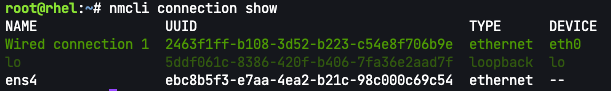
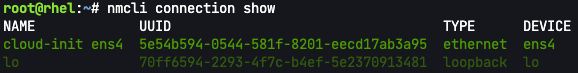
Update installation instructions and network configuration in assignments; comment out unnecessary commands in setup script

diff --git a/command-line-assistant-problem-solving/04-network/assignment.md b/command-line-assistant-problem-solving/04-network/assignment.md
@@ -25,7 +25,7 @@ The command line assistant is useful for configuring and troubleshooting RHEL ne
 Let's ask command line assistant what our DNS is configured to.
 
 ```bash,run
-c "how do I determine my dns server in rhel9"
+c "how do I determine my dns server in rhel10"
 ```
 
 The output should look something like this.
@@ -84,21 +84,21 @@ Here's the output.
 
 ```bash,nocopy
 root@rhel:~# ip route | grep default
-default via 10.5.0.1 dev eth0 proto dhcp src 10.5.0.92 metric 100
+default via 10.5.0.1 dev ens4 proto dhcp src 10.5.0.251 metric 100
 ```
 
-We can see that the default route is set for eth0. eth0 is configured to `Wired connection 1`.
+We can see that the default route is set for ens4. ens4 is configured to `cloud-init ens4`.
 
 As per the instructions above, run the following command to configure the new DNS server.
 
 ```bash,run
-nmcli connection modify Wired\ connection\ 1 ipv4.dns 8.8.8.8
+nmcli connection modify cloud-init\ ens4 ipv4.dns 8.8.8.8
 ```
 
 Then we need to activate the connection.
 
 ```bash,run
-nmcli connection up Wired\ connection\ 1
+nmcli connection up cloud-init\ ens4
 ```
 
 Check the results.

diff --git a/command-line-assistant-problem-solving/01-timezone/assignment.md b/command-line-assistant-problem-solving/01-timezone/assignment.md
@@ -24,6 +24,15 @@ command line assistant powered by RHEL Lightspeed is intended to provide rapid a
 
 In this challenge, we'll get acquainted with the command line assistant.
 
+Install command line assistant
+===
+
+Run the following command to install command line assistant.
+
+```bash,run
+dnf install -y command-line-assistant
+```
+
 Run the command line assistant
 ===
 
